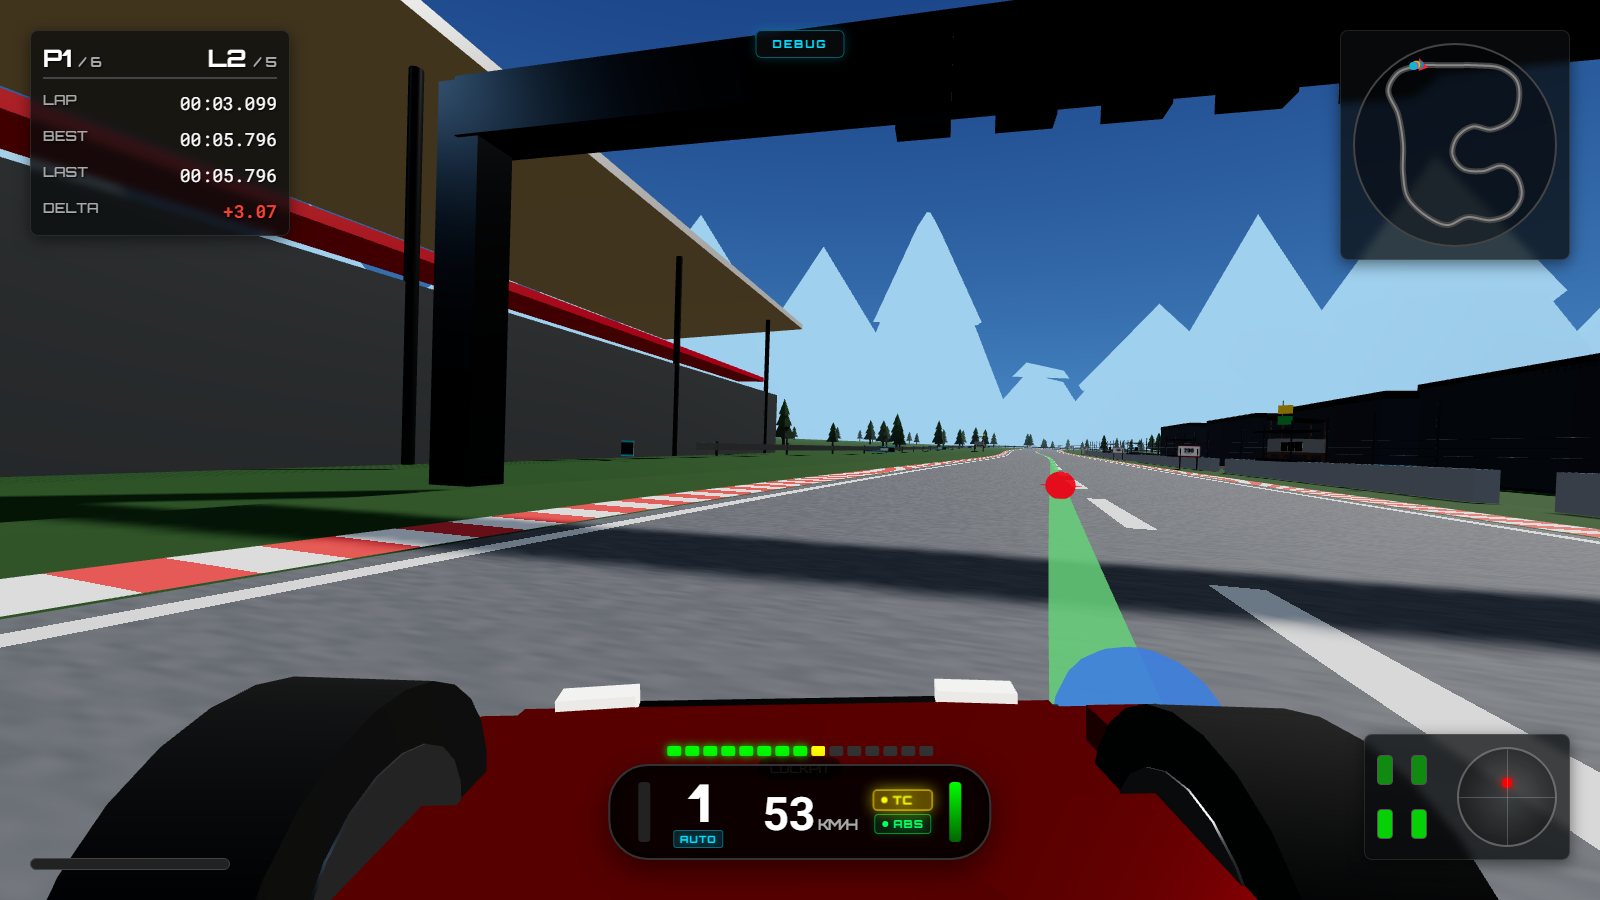
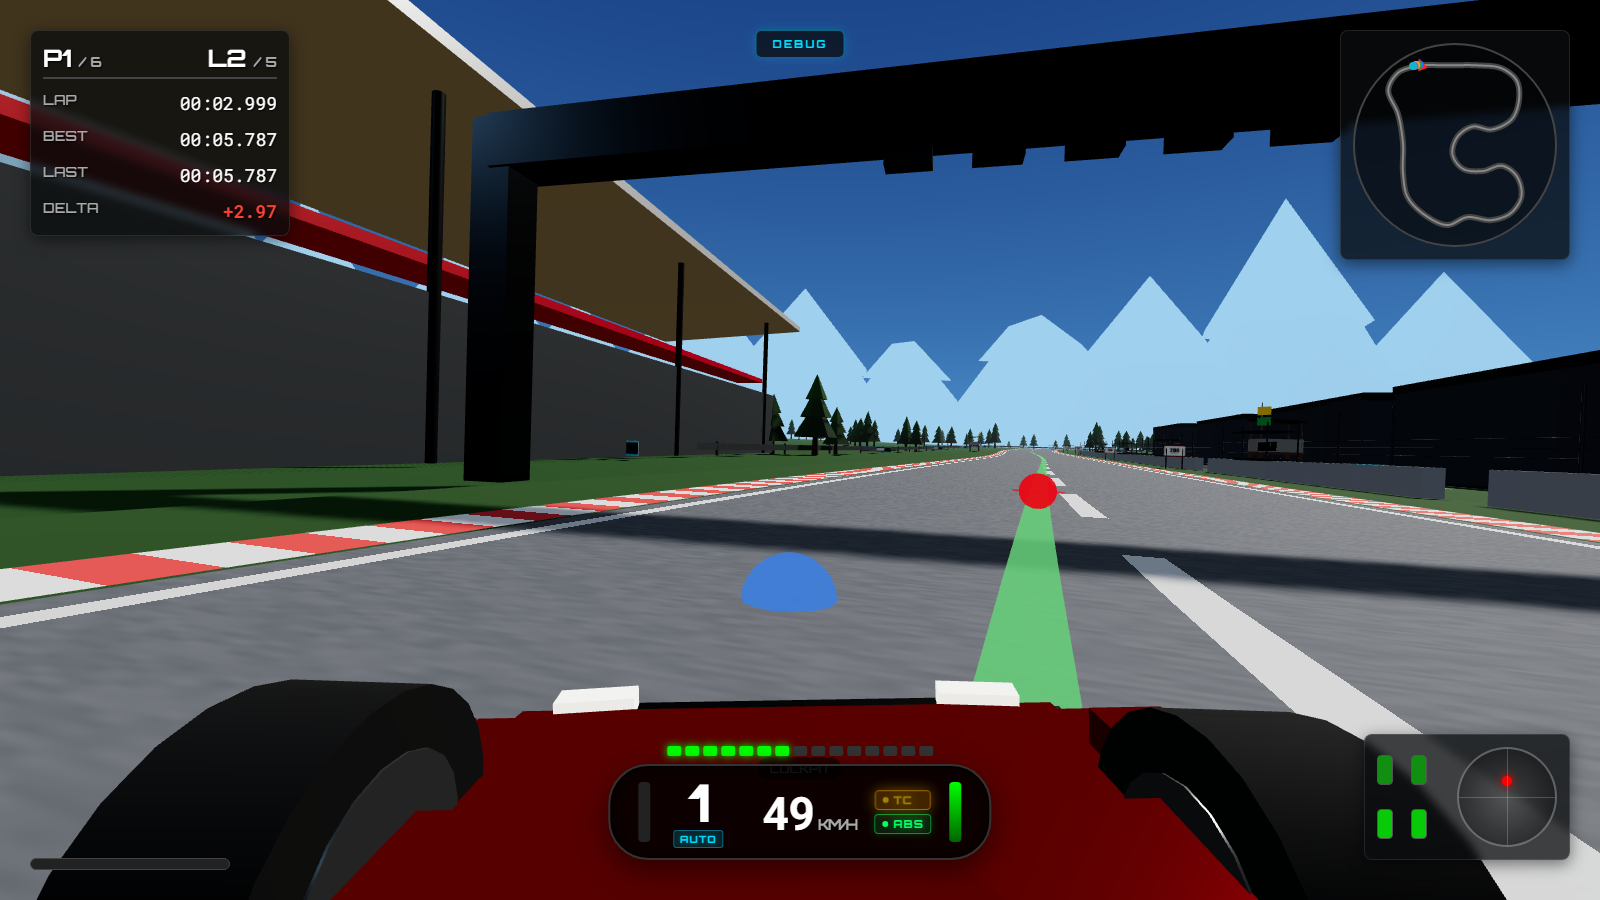
feat(ai): decisive 100% throttle and threshold braking, smooth track re-entry recovery, and competitive slipstream passing

diff --git a/src/ai/aiDriver.js b/src/ai/aiDriver.js
@@ -178,8 +178,8 @@ export function computeRacingLine(track) {
       lat[i] = (lat[(i - 2 + n) % n] + lat[(i - 1 + n) % n] + lat[i] * 2 + lat[(i + 1) % n] + lat[(i + 2) % n]) / 6;
     }
   }
-  const maxLat = (i) => S[i].width / 2 - 1.6;
-  for (let i = 0; i < n; i++) lat[i] = clamp(lat[i] * (S[i].width / 2 - 1.3), -maxLat(i), maxLat(i));
+  const maxLat = (i) => S[i].width / 2 - 2.4;
+  for (let i = 0; i < n; i++) lat[i] = clamp(lat[i] * (S[i].width / 2 - 2.0), -maxLat(i), maxLat(i));
 
   const samples = S.map((s, i) => ({ s: s.s, lateral: lat[i], targetSpeed: vT[i] }));
   return { samples, vT, lat, curv: sm, scurv: sc };
@@ -394,18 +394,18 @@ export function updateAiDriver(driver, cars, dt, active = true) {
     const fwd = dx * cosH - dz * sinH;
     const latO = -dx * sinH - dz * cosH;
     const closingSpeed = v - (o.speed || 0);
-    const inDirectPath = Math.abs(latO) < 1.25;
+    const inDirectPath = Math.abs(latO) < 1.35;
 
-    // 1. Clean Slipstream Drafting & High-Speed Tow on Straights (fwd: 4m to 40m)
-    if (!isUpcomingCorner && fwd > 4.0 && fwd < 40.0 && Math.abs(latO) < 2.8) {
-      draftMod = Math.max(draftMod, arch.draftSpeedBoost || 1.06);
-      driver.draftTimer = Math.min(2.0, (driver.draftTimer || 0) + dt);
+    // 1. Clean Slipstream Drafting & High-Speed Attack Runs (fwd: 3m to 45m)
+    if (fwd > 3.0 && fwd < 45.0 && Math.abs(latO) < 3.2) {
+      draftMod = Math.max(draftMod, arch.draftSpeedBoost || 1.08);
+      driver.draftTimer = Math.min(2.5, (driver.draftTimer || 0) + dt * 2.0);
 
-      // Smooth Passing Lane Offset on Straights:
-      if (fwd < 26.0 && closingSpeed > -0.2) {
-        let passSide = (latO >= 0 ? -1.2 : 1.2);
-        if (passSide < 0 && (currentLateral < -halfTrackWidth + 1.8)) passSide = 1.2;
-        else if (passSide > 0 && (currentLateral > halfTrackWidth - 1.8)) passSide = -1.2;
+      // Aggressive Overtaking Lane Split on Straights:
+      if (!isUpcomingCorner && fwd < 32.0 && closingSpeed > -0.5) {
+        let passSide = (latO >= 0 ? -1.5 : 1.5);
+        if (passSide < 0 && (currentLateral < -halfTrackWidth + 1.6)) passSide = 1.5;
+        else if (passSide > 0 && (currentLateral > halfTrackWidth - 1.6)) passSide = -1.5;
 
         targetOvertakeLat = passSide;
         driver.slingshotActive = true;
@@ -415,33 +415,40 @@ export function updateAiDriver(driver, cars, dt, active = true) {
       if (driver.draftTimer <= 0) driver.slingshotActive = false;
     }
 
-    // 2. Corner Entry Pacing: smooth speed modulation when trailing directly behind
-    if (fwd > 0.5 && fwd < 10.0 && inDirectPath) {
-      if (isUpcomingCorner || (o.input && o.input.brake > 0.1) || closingSpeed > 0.5) {
-        const paceRatio = clamp((fwd - 2.8) / 7.0, 0.70, 1.0);
+    // 2. Defensive Line Covering: Leader blocks inside line when attacked
+    if (fwd > -25.0 && fwd < -1.5 && Math.abs(latO) < 3.5) {
+      if (isUpcomingCorner && (arch.defenseAggression || 0.8) > 0.4) {
+        targetDefendLat = insideDir !== 0 ? insideDir * 1.3 : (latO > 0 ? 1.3 : -1.3);
+      }
+    }
+
+    // 3. Side-by-Side 2-Wide Corridor Clearance
+    if (Math.abs(fwd) < 4.8 && Math.abs(latO) < 2.5) {
+      const overlap = clamp(2.5 - Math.abs(latO), 0, 1.8);
+      if (latO > 0) {
+        targetYieldLat -= Math.max(overlap * 0.65, 0.35);
+      } else {
+        targetYieldLat += Math.max(overlap * 0.65, 0.35);
+      }
+    }
+
+    // 4. Traffic Pacing & Safety in Corners (Only when directly behind in same lane)
+    if (fwd > 0.8 && fwd < 8.5 && inDirectPath) {
+      if (isUpcomingCorner || (o.input && o.input.brake > 0.15) || (closingSpeed > 1.0 && fwd < 5.0)) {
+        const paceRatio = clamp((fwd - 2.0) / 6.5, 0.75, 1.0);
         slowFactor = Math.min(slowFactor, paceRatio);
       }
     }
 
-    // 3. Side-by-Side Spatial Clearance (Wheel-to-Wheel respect)
-    if (Math.abs(fwd) < 4.2 && Math.abs(latO) < 2.2) {
-      const overlap = clamp(2.2 - Math.abs(latO), 0, 1.5);
-      if (latO > 0) {
-        targetYieldLat -= Math.max(overlap * 0.5, 0.25);
-      } else {
-        targetYieldLat += Math.max(overlap * 0.5, 0.25);
-      }
-    }
-
-    // 4. Anti-Crash Emergency Safety Buffer (Point-blank only)
-    if (fwd > 0.5 && fwd < 5.0 && inDirectPath && closingSpeed > 0.5) {
-      const proxBrake = clamp((5.0 - fwd) / 3.5, 0.35, 0.90);
+    // 5. Anti-Crash Emergency TTC Buffer (Point-blank only)
+    if (fwd > 0.4 && fwd < 3.8 && inDirectPath && closingSpeed > 1.2) {
+      const proxBrake = clamp((3.8 - fwd) / 2.5, 0.4, 0.95);
       maxEmergencyBrake = Math.max(maxEmergencyBrake, proxBrake);
       avoidanceActive = true;
     }
 
-    // 5. Pressure & Mistake Detection
-    if (fwd > -3.5 && fwd < 3.5 && Math.abs(latO) < 2.5) {
+    // 6. Pressure & Mistake Detection
+    if (fwd > -4.0 && fwd < 4.0 && Math.abs(latO) < 3.0) {
       isUnderPressure = true;
     }
   }
@@ -468,20 +475,16 @@ export function updateAiDriver(driver, cars, dt, active = true) {
     driver.pressureTimer = Math.max(0, (driver.pressureTimer || 0) - dt * 2.0);
   }
 
-  // Smooth filter dynamic offsets
-  const filterRate = clamp(dt * (avoidanceActive ? 6.0 : 3.5), 0, 1);
+  // Smooth filter dynamic offsets with agile steering response
+  const filterRate = clamp(dt * (avoidanceActive || driver.slingshotActive ? 7.0 : 4.5), 0, 1);
   driver.defendLat += (targetDefendLat - driver.defendLat) * filterRate;
   driver.overtakeLat += (targetOvertakeLat - driver.overtakeLat) * filterRate;
   driver.yieldLat += (targetYieldLat - driver.yieldLat) * filterRate;
 
   let totalExtraLat = driver.defendLat + driver.overtakeLat + driver.yieldLat + driver.mistakeLat;
-  totalExtraLat = clamp(totalExtraLat, -halfTrackWidth + 1.2, halfTrackWidth - 1.2);
-
-  // Neural Network policy execution (if trained policy is supplied)
-  const obs = getObs(car, track, driver.line);
-  if (Math.abs(obs[2]) > 1.2 || Math.abs(totalExtraLat) > 0.5 || avoidanceActive || driver.stabilizationTimer > 0) {
-    useFallback = true;
-  }
+  // Strictly enforce that lateral offsets cannot push the vehicle beyond safe track boundaries
+  const maxSafeExtraLat = Math.max(0.2, halfTrackWidth - 2.2);
+  totalExtraLat = clamp(totalExtraLat, -maxSafeExtraLat, maxSafeExtraLat);
 
   // During emergency avoidance, slightly shorten lookahead distance for agility while preserving stability
   const effectiveLook = avoidanceActive ? Math.max(6.5, look * 0.75) : look;
@@ -509,6 +512,21 @@ export function updateAiDriver(driver, cars, dt, active = true) {
     }
   }
 
+  // --- Off-Track Recovery Controller ---
+  if (car.offTrack) {
+    const smAhead = track.sampleAt(progressS + 18);
+    const dxR = smAhead.pos.x - car.pos.x;
+    const dzR = smAhead.pos.z - car.pos.z;
+    const reenterAngle = Math.atan2(-dzR, dxR);
+    let reenterErr = reenterAngle - car.heading;
+    while (reenterErr > Math.PI) reenterErr -= 2 * Math.PI;
+    while (reenterErr < -Math.PI) reenterErr += 2 * Math.PI;
+
+    car.input.steer = clamp(reenterErr * 2.2 - car.yawRate * 0.14, -1, 1);
+    car.input.throttle = 0.52;
+    car.input.brake = 0;
+  } else {
+    // --- Standard High-Performance Racecraft Execution ---
     const dxT = pt.x - car.pos.x, dzT = pt.z - car.pos.z;
     const target = Math.atan2(-dzT, dxT);
     let err = target - car.heading;
@@ -528,29 +546,27 @@ export function updateAiDriver(driver, cars, dt, active = true) {
     } else if (driver.stabilizationTimer > 0) {
       // Clean throttle ramping after wall impact / touch
       const stabProgress = clamp(1.0 - driver.stabilizationTimer / 1.2, 0, 1);
-      car.input.throttle = clamp(0.40 + 0.60 * stabProgress, 0, 1.0);
+      car.input.throttle = clamp(0.50 + 0.50 * stabProgress, 0, 1.0);
       car.input.brake = 0;
-    } else if (dv > 0.3) {
-      // Accelerating
+    } else if (dv > 0.15) {
+      // ACCELERATING: 100% FULL THROTTLE
       let throttle = 1.0;
-      if (dv < 2.5 && Math.abs(steer) > 0.18) {
-        // High lateral load corner exit: modulate throttle to prevent snapping the rear
-        throttle = clamp(dv * 0.45, 0.5, 1.0);
-        if (arch.throttleAggression && arch.throttleAggression < 1.0) {
-          throttle *= arch.throttleAggression;
-        }
-      } else {
-        // Straights & open exits: FULL 100% THROTTLE
-        throttle = 1.0;
+      if (dv < 2.0 && Math.abs(steer) > 0.22) {
+        // High lateral load corner exit: modulate throttle to prevent wheelspin
+        throttle = clamp(dv * 0.55, 0.65, 1.0);
       }
       if (driver.mistakeType === 'hesitation') {
-        throttle *= 0.7; // Hesitation mistake
+        throttle *= 0.75;
       }
-      car.input.throttle = clamp(throttle * (draftMod > 1 ? 1.05 : 1.0), 0, 1.0);
+      car.input.throttle = throttle;
       car.input.brake = 0;
     } else if (dv < -0.3) {
-      // Decisive Threshold Braking with Trail-Braking
-      let brake = clamp(-dv * 0.45, 0.4, 1.0);
+      // DECISIVE THRESHOLD BRAKING & TRAIL BRAKING
+      let brake = 1.0;
+      if (dv > -1.8) {
+        // Approaching target speed: smooth threshold taper
+        brake = clamp(-dv / 1.8, 0.35, 1.0);
+      }
       // Trail-braking: as steering angle increases towards apex, trail off brake
       if (Math.abs(steer) > 0.08) {
         const trailMod = arch.trailBrakeMod ? 0.35 : 0.48;
@@ -559,16 +575,17 @@ export function updateAiDriver(driver, cars, dt, active = true) {
       car.input.throttle = 0;
       car.input.brake = clamp(brake, 0, 1.0);
     } else {
-      // Rolling / maintaining high corner speed
-      let rollThrottle = clamp(0.38 + (arch.cornerSpeedFactor ? (arch.cornerSpeedFactor - 0.95) * 0.5 : 0.05), 0.3, 0.6);
-      if (driver.mistakeType === 'hesitation') rollThrottle *= 0.7;
+      // ROLLING / MAINTAINING HIGH APEX CORNER SPEED
+      let rollThrottle = clamp(0.50 + (arch.cornerSpeedFactor ? (arch.cornerSpeedFactor - 0.95) * 0.6 : 0.08), 0.45, 0.75);
+      if (driver.mistakeType === 'hesitation') rollThrottle *= 0.75;
       car.input.throttle = rollThrottle;
       car.input.brake = 0;
     }
 
     // Traction control on excessive rear wheelspin
     const spin = Math.max(car.wheels?.[2]?.slipRatio ?? 0, car.wheels?.[3]?.slipRatio ?? 0);
-    if (spin > 0.16) car.input.throttle *= 0.75;
+    if (spin > 0.18) car.input.throttle *= 0.80;
+  }
 
   driver._debugState = {
     targetPos: { x: pt.pos.x, y: pt.pos.y, z: pt.pos.z },

diff --git a/src/physics/car.js b/src/physics/car.js
@@ -235,17 +235,13 @@ export function stepCar(car, track, dt) {
   // Traction Control (TC)
   let tcCut = 0;
   const rearSlipAvg = (car.wheels[2].slipRatio + car.wheels[3].slipRatio) / 2;
-  if (!car.offTrack && car.speed > 3.0) {
+  if (car.speed > 1.0) {
     if (car.tcLevel === 1) {
       // Low (Race): allows playful wheelspin up to 0.25, gentle torque cut
-      if (rearSlipAvg > 0.25) {
-        tcCut = clamp((rearSlipAvg - 0.25) / 0.25, 0, 0.30);
-      }
+      if (rearSlipAvg > 0.25) tcCut = clamp((rearSlipAvg - 0.25) / 0.35, 0, 0.40);
     } else if (car.tcLevel === 2) {
-      // High (Safe): intervenes above 0.15 slip, cuts up to 50%
-      if (rearSlipAvg > 0.15) {
-        tcCut = clamp((rearSlipAvg - 0.15) / 0.20, 0, 0.50);
-      }
+      // High (Safe): strict slip limit
+      if (rearSlipAvg > 0.12) tcCut = clamp((rearSlipAvg - 0.12) / 0.20, 0, 0.75);
     }
   }
   car.tcActive = tcCut > 0.05;
@@ -421,7 +417,7 @@ export function stepCar(car, track, dt) {
 
   // --- Wall collision -------------------------------------------------------
   car.wallHit = Math.max(0, car.wallHit - dt * 3);
-  if (track && track.walls) collideWalls(car, track);
+  if (track && track.walls) collideWalls(car, track, dt);
 
   return car;
 }
@@ -438,7 +434,7 @@ function autoShift(car) {
   }
 }
 
-function collideWalls(car, track) {
+function collideWalls(car, track, dt = 1 / 240) {
   const radius = 1.05;
   const walls = track.wallsNear ? track.wallsNear(car.pos, 6) : track.walls;
   if (!walls) return;
@@ -468,9 +464,13 @@ function collideWalls(car, track) {
         car.vx = car.vel.x * cosH - car.vel.z * sinH;
         car.vy = -car.vel.x * sinH - car.vel.z * cosH;
         const impact = -vn;
-        car.damage = clamp(car.damage + impact * 0.012, 0, 1);
+        if (impact > 3.0) {
+          car.damage = clamp(car.damage + (impact - 3.0) * 0.04 * dt, 0, 1);
+        }
         car.wallHit = clamp(impact / 8, 0, 1);
         car.yawRate *= 0.85;
+        car.speed = Math.hypot(car.vx, car.vy);
+        car.speedKph = car.speed * 3.6;
       }
     }
   }
